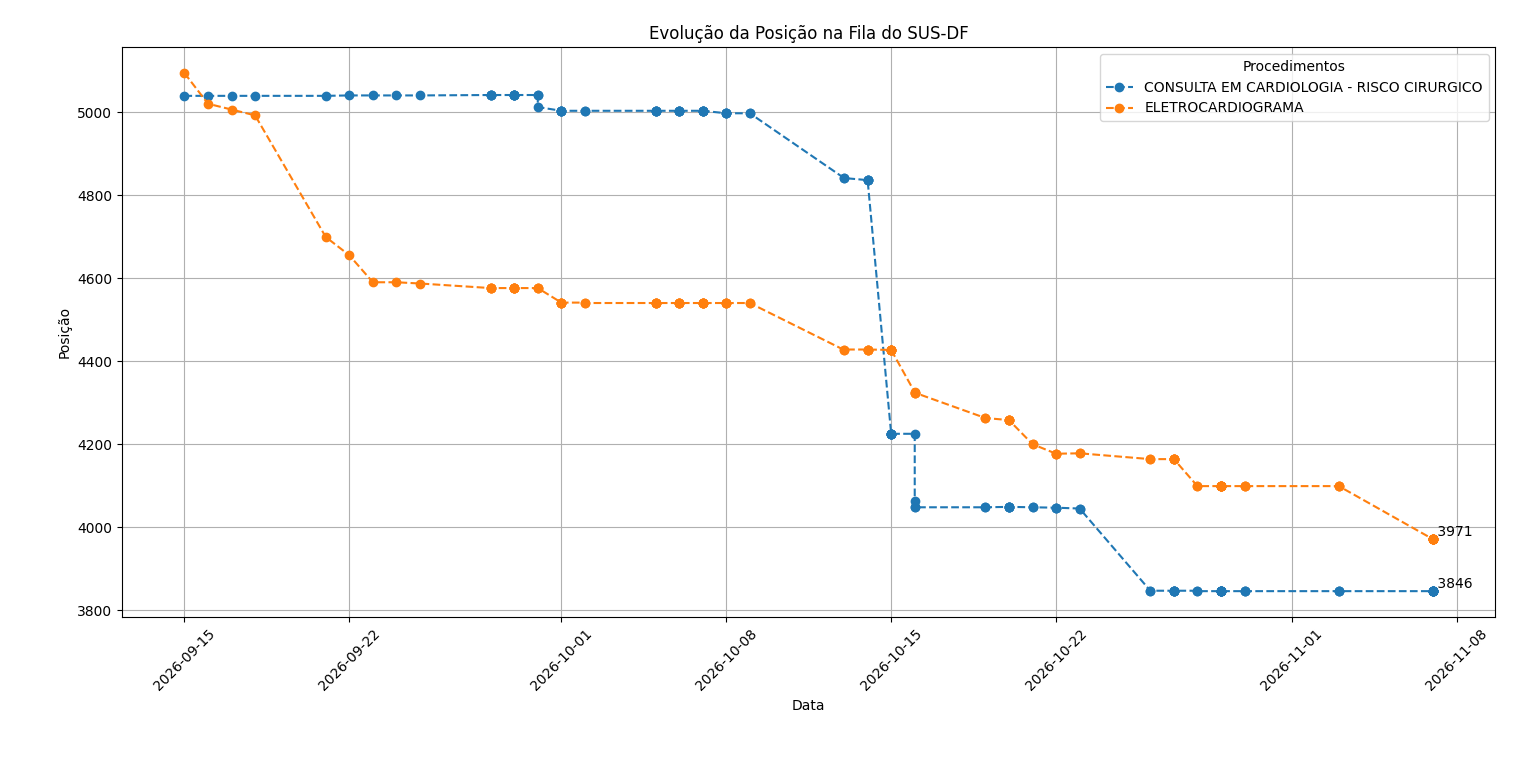
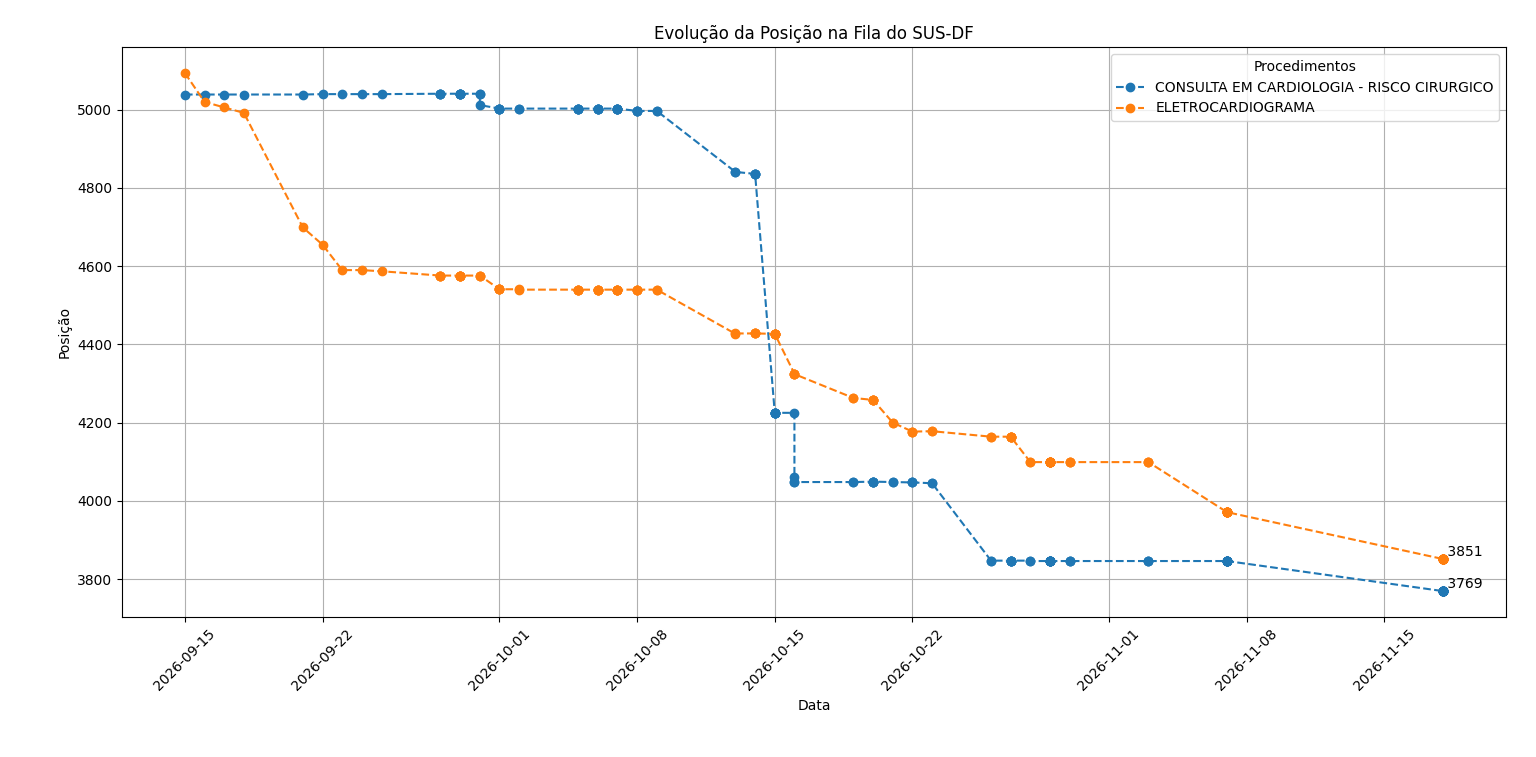
Update sus-df-tracker

diff --git a/fila_colecistectomia.py b/fila_colecistectomia.py
@@ -1,43 +1,26 @@
-from datetime import datetime
-import requests
-import pandas as pd
+from datetime import datetime, timedelta
+from pathlib import Path
+
 import matplotlib.pyplot as plt
+import matplotlib.dates as mdates
+import numpy as np
+import pandas as pd
+import requests
+from auxiliares import dados, data_de_hoje, adiciona_data
 
-def data_de_hoje():
- 
-    return datetime.now()
-
-#Adiciona coluna com apenas a data 
-def adiciona_data(dados): 
-    
-    dados['datetime'] = pd.to_datetime(dados['datetime'])
-    dados['data'] = dados['datetime'].dt.date
-    return dados 
-
-#Faz a requisicao no site do ministerio publico e salva os valores em um arquivo (historico.txt)
-def dados():
-    
-    data_hoje = data_de_hoje()
-    
-    r = requests.get("https://www.mpdft.mp.br/acompanhamento-sus-df/api/cns/solicitacoes-atuais/?cns=700008748692306&offset=0&next=10")
-    solicitacoes = r.json()
-    # print(solicitacoes)
-    
-    with open("historico.txt", "a",encoding="utf-8") as historico:
-        for solicitacao in solicitacoes:
-            procedimento = solicitacao.get("procedimento")
-            posicao = solicitacao.get("posicao")
-            historico.write(f"{data_hoje},{procedimento},{posicao}\n")
+NOME_ARQUIVO = Path("historico.txt")
 
 def grafico_individual(df):
     
     titulo = df['procedimento'].iloc[0]
+
+    data_formatada = data_de_hoje().strftime("%d/%m/%Y")
     
-    ax = df.plot(title=titulo,
+    ax = df.plot(title=f'{titulo} {data_formatada}',
             x='data',
             y='posicao',
             linestyle='--',
-            color='blue',
+            color='darkblue',
             kind='line',
             xlabel='Data',
             ylabel='Posição',
@@ -73,8 +56,8 @@ def grafico_individual(df):
             xytext=xytext,
             ha="center",
             va=va,
-            fontsize=9,
-            color='blue'
+            fontsize=10,
+            color='darkblue'
         )
 
         contador_rotulos += 1

diff --git a/auxiliares.py b/auxiliares.py
@@ -1,0 +1,42 @@
+from datetime import datetime, timedelta
+from pathlib import Path
+
+import matplotlib.pyplot as plt
+import matplotlib.dates as mdates
+import numpy as np
+import pandas as pd
+import requests
+
+
+NOME_ARQUIVO = Path("historico.txt")
+
+def dados():
+    try:
+        r = requests.get(
+            "https://www.mpdft.mp.br/acompanhamento-sus-df/api/cns/solicitacoes-atuais/?cns=700008748692306&offset=0&next=10",
+            timeout=10,
+        )
+        solicitacoes = r.json()
+    except Exception as e:
+        print(f"Erro ao buscar dados da API: {e}")
+        return
+    
+    data_hoje = datetime.now()
+    
+    with open(NOME_ARQUIVO, "a", encoding="utf-8") as historico:
+        for s in solicitacoes:
+            procedimento = s.get("procedimento")
+            posicao = s.get("posicao")
+            if procedimento and posicao is not None:
+                historico.write(f"{data_hoje},{procedimento.strip()},{posicao}\n")
+
+def data_de_hoje():
+ 
+    return datetime.now()
+
+#Adiciona coluna com apenas a data 
+def adiciona_data(dados): 
+    
+    dados['datetime'] = pd.to_datetime(dados['datetime'])
+    dados['data'] = dados['datetime'].dt.date
+    return dados 

diff --git a/fila_sus.py b/fila_sus.py
@@ -1,18 +1,14 @@
-from datetime import datetime
-import requests
-import pandas as pd
+from datetime import datetime, timedelta
+from pathlib import Path
+
 import matplotlib.pyplot as plt
+import matplotlib.dates as mdates
+import numpy as np
+import pandas as pd
+import requests
+from auxiliares import dados, data_de_hoje, adiciona_data
 
-def data_de_hoje():
- 
-    return datetime.now()
-
-#Adiciona coluna com apenas a data 
-def adiciona_data(dados): 
-    
-    dados['datetime'] = pd.to_datetime(dados['datetime'])
-    dados['data'] = dados['datetime'].dt.date
-    return dados 
+NOME_ARQUIVO = Path("historico.txt")
 
 #Faz a requisicao no site do ministerio publico e salva os valores em um arquivo (historico.txt)
 def dados():
@@ -38,6 +34,8 @@ def grafico_geral():
     # Remove ENDOSCOPIA DIGESTIVA ALTA pois ja foi feito
     df = df[df['procedimento'] != 'ENDOSCOPIA DIGESTIVA ALTA']
     df = df[df['procedimento'] != 'CONSULTA EM PSIQUIATRIA - GERAL']
+    df = df[df['procedimento'] != 'CE - COLECISTECTOMIA ']
+    df = df[df['procedimento'] != 'CE - COLECISTECTOMIA']
 
     df = df.dropna(subset=['data', 'posicao'])
     

diff --git a/fila_sus_gemini.py b/fila_sus_gemini.py
@@ -8,30 +8,9 @@ import matplotlib.dates as mdates
 import numpy as np
 import pandas as pd
 import requests
+from auxiliares import dados, data_de_hoje, adiciona_data
 
 NOME_ARQUIVO = Path("historico.txt")
-
-
-def dados():
-    try:
-        r = requests.get(
-            "https://www.mpdft.mp.br/acompanhamento-sus-df/api/cns/solicitacoes-atuais/?cns=700008748692306&offset=0&next=10",
-            timeout=10,
-        )
-        solicitacoes = r.json()
-    except Exception as e:
-        print(f"Erro ao buscar dados da API: {e}")
-        return
-    
-    data_hoje = datetime.now()
-    
-    with open(NOME_ARQUIVO, "a", encoding="utf-8") as historico:
-        for s in solicitacoes:
-            procedimento = s.get("procedimento")
-            posicao = s.get("posicao")
-            if procedimento and posicao is not None:
-                historico.write(f"{data_hoje},{procedimento.strip()},{posicao}\n")
-
 
 def graficos():
     
